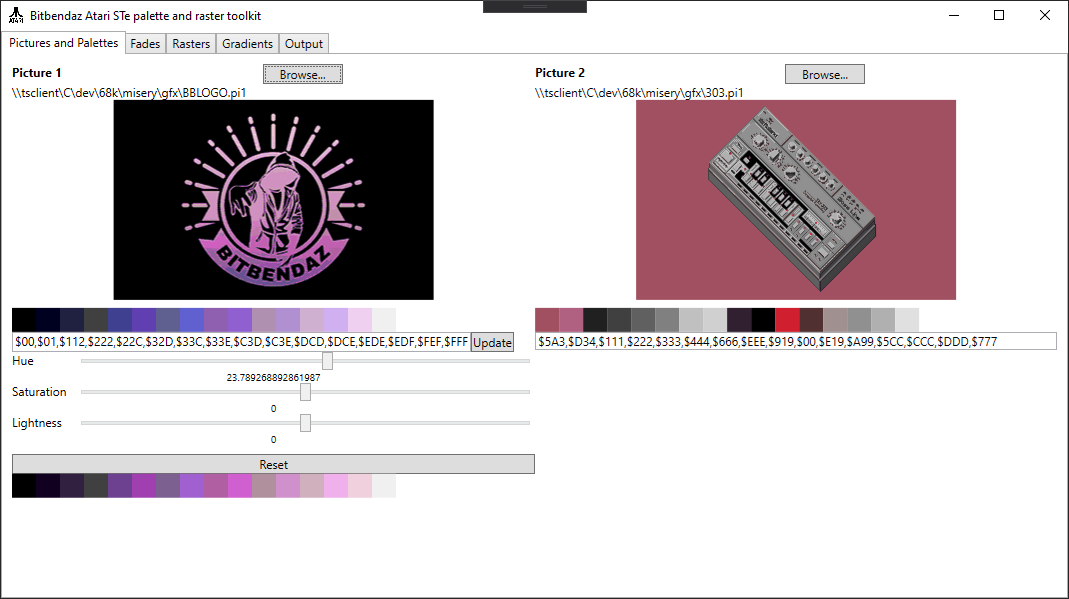
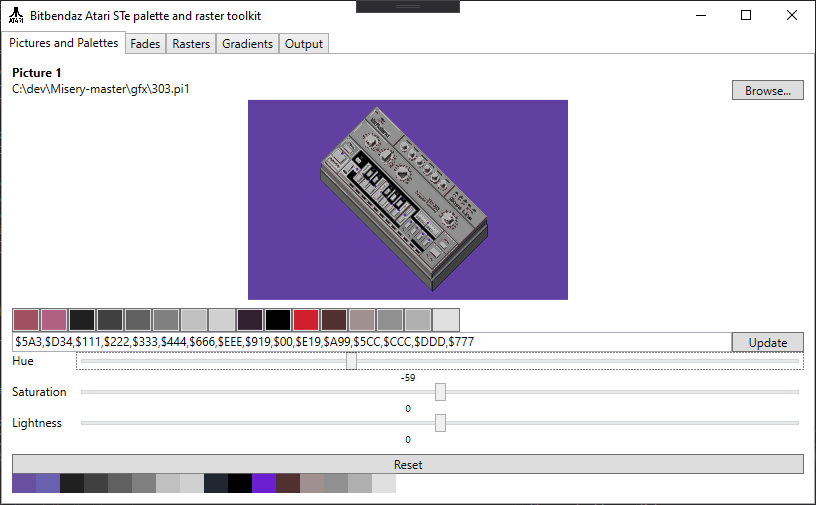
Removed Picture 2, screenshot update

diff --git a/StPalCalc/MainWindow.xaml b/StPalCalc/MainWindow.xaml
@@ -24,21 +24,21 @@
                     <StackPanel Grid.Row="0">
                         <Grid>
                             <Grid.ColumnDefinitions>
-                                <ColumnDefinition Width="138*"/>
-                                <ColumnDefinition Width="267*"/>
-                                <ColumnDefinition Width="404*"/>
+                                <ColumnDefinition Width="*"/>
                             </Grid.ColumnDefinitions>
                             <StackPanel Grid.Column="0" Grid.ColumnSpan="2">
                                 <DockPanel>
                                     <TextBlock Text="Picture 1" FontWeight="Bold"/>
-                                    <Button Width="80" Command="{Binding OpenPic1Command}" Content="Browse..." DockPanel.Dock="Right" Margin="8,0,0,0"/>
                                 </DockPanel>
-                                <TextBlock Text="{Binding ActiveFilename}"/>
+                                <DockPanel>
+                                    <Button Width="72" Command="{Binding OpenPic1Command}" Content="Browse..." DockPanel.Dock="Right" Margin="8,0,0,0"/>
+                                    <TextBlock Text="{Binding ActiveFilename}"/>
+                                </DockPanel>
                                 <Image x:Name="Image1" Width="320" Height="200" Margin="0,0,0,8"/>
                                 <StackPanel Orientation="Horizontal" x:Name="ColorsStackPanel1" Height="24"/>
 
                                 <DockPanel>
-                                    <Button Content="Update" Command="{Binding UpdatePalette1Command}" CommandParameter="{Binding ElementName=Palette1TextBox,Path=Text}" DockPanel.Dock="Right"/>
+                                    <Button Content="Update" Command="{Binding UpdatePalette1Command}" CommandParameter="{Binding ElementName=Palette1TextBox,Path=Text}" DockPanel.Dock="Right" Width="72"/>
                                     <TextBox Text="{Binding RawPalette}" x:Name="Palette1TextBox"/>
                                 </DockPanel>
 
@@ -60,16 +60,6 @@
                                 <Button Click="ResetButtonBase_OnClick" Content="Reset" Margin="0,8,0,0"/>
                                 <StackPanel Orientation="Horizontal" x:Name="HueColorsStackPanel1" Height="24"/>
                             </StackPanel>
-                            <StackPanel Grid.Column="2">
-                                <DockPanel>
-                                    <TextBlock Text="Picture 2" FontWeight="Bold"/>
-                                    <Button Width="80" Command="{Binding OpenPic2Command}" Content="Browse..." DockPanel.Dock="Right" Margin="8,0,0,0"/>
-                                </DockPanel>
-                                <TextBlock Text="{Binding ActiveFilename2}"/>
-                                <Image x:Name="Image2" Width="320" Height="200" Margin="0,0,0,8"/>
-                                <StackPanel Orientation="Horizontal" x:Name="ColorsStackPanel2" Height="24"/>
-                                <TextBox Text="{Binding RawPalette2}"/>
-                            </StackPanel>
                         </Grid>
 
 
@@ -80,8 +70,6 @@
             <TabItem Header="Fades">
                 <StackPanel>
                     <DockPanel LastChildFill="False">
-                        <RadioButton x:Name="UsePicture1" IsChecked="{Binding Path=UsePicture, Converter={StaticResource RadioBoolToIntConverter}, ConverterParameter=0}" Content="Use picture 1"/>
-                        <RadioButton x:Name="UsePicture2" IsChecked="{Binding Path=UsePicture, Converter={StaticResource RadioBoolToIntConverter}, ConverterParameter=1}"  Content="Use picture 2" Margin="8,0,0,0"/>
                         <TextBlock Text="Data type:" Margin="8,0,0,0"/>
                         <ComboBox x:Name="DataTypesCombo" SelectedIndex="1" Margin="4,0,0,0" SelectionChanged="DataTypesCombo_OnSelectionChanged"/>
                     </DockPanel>

diff --git a/StPalCalc/MainViewModel.cs b/StPalCalc/MainViewModel.cs
@@ -128,16 +128,6 @@ namespace StPalCalc
             }
         }
 
-        private int _usePicture;
-        public int UsePicture
-        {
-            get => _usePicture;
-            set
-            {
-                _usePicture = value;
-                OnPropertyChanged();
-            }
-        }
         private string _previewText;
         public string PreviewText
         {
@@ -153,7 +143,6 @@ namespace StPalCalc
         }
         private ushort[] _rawPalette1 = new ushort[16];
         private ushort[] _rawPalette1Hue = new ushort[16];
-        private ushort[] _rawPalette2 = new ushort[16];
 
         private string _startColor;
         public string StartColor
@@ -181,17 +170,6 @@ namespace StPalCalc
             }
         }
 
-        private string _rawPaletteString2;
-        public string RawPalette2
-        {
-            get => _rawPaletteString2;
-            set
-            {
-                _rawPaletteString2 = value;
-                OnPropertyChanged();
-            }
-        }
-
         private string _orgPaletteRgb;
         public string OrgPaletteRgb
         {
@@ -213,16 +191,6 @@ namespace StPalCalc
                 OnPropertyChanged();
             }
         }
-        private string _activeFilename2;
-        public string ActiveFilename2
-        {
-            get => _activeFilename2;
-            set
-            {
-                _activeFilename2 = value;
-                OnPropertyChanged();
-            }
-        }
 
         private int _rasterIndexColor;
 
@@ -241,7 +209,6 @@ namespace StPalCalc
         public ushort[] PreviewPalette = new ushort[16];
 
         public DelegateCommand<string> OpenPic1Command { get; set; }
-        public DelegateCommand<string> OpenPic2Command { get; set; }
         public DelegateCommand<string> GenerateCommand { get; set; }
         public DelegateCommand<string> FadeToBlackCommand { get; set; }
         public DelegateCommand<string> FadeToWhiteCommand { get; set; }
@@ -474,18 +441,6 @@ namespace StPalCalc
                     UpdatePictureAction?.Invoke(PictureType.Picture1);
                 }
             });
-            OpenPic2Command = new DelegateCommand<string>(_ =>
-            {
-                var dlg = new OpenFileDialog { DefaultExt = ".pi1", Filter = "PI1 files|*.pi1;" };
-                dlg.ShowDialog();
-                if (!string.IsNullOrEmpty(dlg.FileName))
-                {
-                    ActiveFilename2 = dlg.FileName;
-                    RawPalette2 = ReadPalette(ActiveFilename2, ref _rawPalette2);
-                    UpdateUiAction?.Invoke();
-                    UpdatePictureAction?.Invoke(PictureType.Picture2);
-                }
-            });
             GenerateCommand = new DelegateCommand<string>(s =>
             {
                 var startColor = Helpers.FromStString(_startColor);
@@ -504,16 +459,15 @@ namespace StPalCalc
             });
             FadeToBlackCommand = new DelegateCommand<string>(b =>
             {
-                GenerateFade(UsePicture == 0 ? _rawPalette1 : _rawPalette2, "0");
+                GenerateFade(_rawPalette1, "0");
             });
             FadeToWhiteCommand = new DelegateCommand<string>(b =>
             {
-                GenerateFade(UsePicture == 0 ? _rawPalette1 : _rawPalette2, "FFF");
+                GenerateFade(_rawPalette1, "FFF");
             });
             FadeFromPaletteToHueCommand = new DelegateCommand<string>(_ =>
             {
-                GenerateFade(UsePicture == 0 ? _rawPalette1 : _rawPalette2,
-                    UsePicture == 0 ? _rawPalette1Hue : _rawPalette2);
+                GenerateFade(_rawPalette1,_rawPalette1Hue);
             });
             ChangeGradientColorCommand = new DelegateCommand<string>(s =>
             {
@@ -665,23 +619,11 @@ namespace StPalCalc
         {
             return $"${_rawPalette1[index]:X2}";
         }
-        public string Get12BitRgbFromPalette2(int index)
-        {
-            return $"${_rawPalette2[index]:X2}";
-        }
         public Color GetRgbFromPalette1(int index)
         {
             var data = Helpers.GetBits(_rawPalette1[index]);
             return Helpers.ToColor(Helpers.GetRValue(data), Helpers.GetGValue(data), Helpers.GetBValue(data));
         }
-        public Color GetRgbFromPalette2(int index)
-        {
-            var data = Helpers.GetBits(_rawPalette2[index]);
-            return Helpers.ToColor(Helpers.GetRValue(data), Helpers.GetGValue(data), Helpers.GetBValue(data));
-        }
-
-
-
 
         private string ReadPalette(string filename, ref ushort[] target)
         {
@@ -758,7 +700,6 @@ namespace StPalCalc
                                         stColor = _rawPalette1[bv];
                                         break;
                                     case PictureType.Picture2:
-                                        stColor = _rawPalette2[bv];
                                         break;
                                     case PictureType.PreviewPicture:
                                         stColor = PreviewPalette[bv];

diff --git a/StPalCalc/MainWindow.xaml.cs b/StPalCalc/MainWindow.xaml.cs
@@ -23,7 +23,6 @@ namespace StPalCalc
             _vm.UpdateUiAction += () =>
             {
                 ColorsStackPanel1.Children.Clear();
-                ColorsStackPanel2.Children.Clear();
                 for (var i = 0; i < 16; i++)
                 {
                     var color = _vm.GetRgbFromPalette1(i);
@@ -34,9 +33,7 @@ namespace StPalCalc
                         Height = 24,
                         ToolTip = _vm.Get12BitRgbFromPalette1(i)
                     };
-                    var btn = new Button();
-                    btn.Content = r;
-                    btn.Tag = i;
+                    var btn = new Button {Content = r, Tag = i};
                     btn.Click += (sender, args) =>
                     {
                         var b = (Button) sender;
@@ -46,19 +43,10 @@ namespace StPalCalc
                         {
                             var stColor = Helpers.ConvertFromRgbTo12Bit(pc.Value, true);
                             _vm.SetPaletteValue((ushort)Convert.ToInt32(stColor, 16), index);
+                            _vm.UpdatePictureAction.Invoke(PictureType.Picture1);
                         }
                     };
                     ColorsStackPanel1.Children.Add(btn);
-
-                    color = _vm.GetRgbFromPalette2(i);
-                    r = new Rectangle
-                    {
-                        Fill = new SolidColorBrush(color),
-                        Width = 24,
-                        Height = 24,
-                        ToolTip = _vm.Get12BitRgbFromPalette2(i)
-                    };
-                    ColorsStackPanel2.Children.Add(r);
                 }
             };
             _vm.UpdateGradientAction += colors =>
@@ -113,9 +101,6 @@ namespace StPalCalc
                 {
                     case PictureType.Picture1:
                         _vm.RenderPi1(_vm.ActiveFilename, Image1, pictureType);
-                        break;
-                    case PictureType.Picture2:
-                        _vm.RenderPi1(_vm.ActiveFilename2, Image2, pictureType);
                         break;
                     case PictureType.PreviewPicture:
                         _vm.RenderPi1(_vm.PreviewFilename, PreviewImage, pictureType, true);
